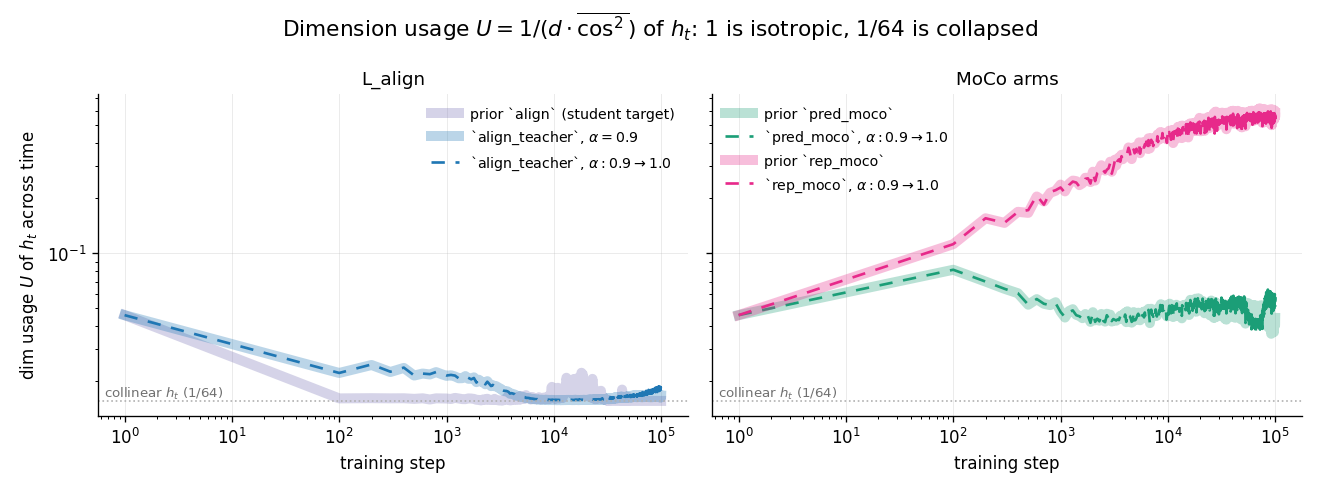
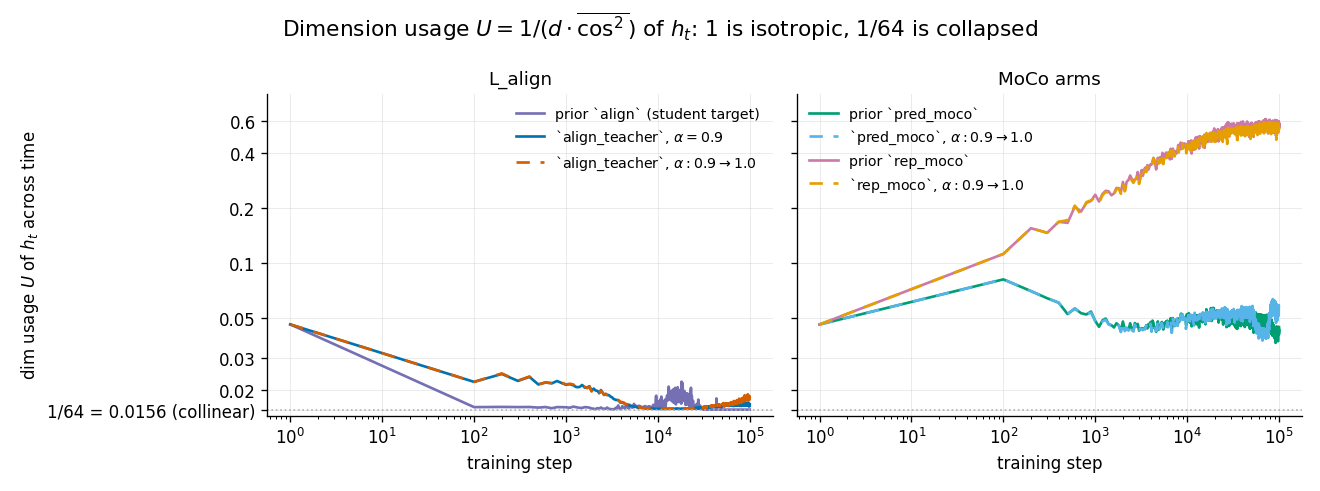
plots: fix unreadable y scales on the three flagged figures
drift_headline: shared LOG y instead of linear 0-1.4. The figure's claim is
a comparison of magnitudes across panels, so the scale stays shared; drift
spans 0.0035 to 1.32 and a linear axis flattened every low-drift arm onto
the zero line. Six labelled ticks.

drift_500: keep sharey and log, clip the shared floor to 3e-4 where 1593 of
1600 points live, instead of six mostly empty decades. Eight labelled ticks.

dim_usage: label the ticks, floor included, so the near-1/64 claim is
checkable; one colour per series and equal line weight, replacing the pale
wide bands.

diff --git a/experiments/2026-08-01_align_teacher_ema_schedule/scripts/make_plots.py b/experiments/2026-08-01_align_teacher_ema_schedule/scripts/make_plots.py
@@ -39,6 +39,7 @@ import matplotlib
 matplotlib.use("Agg")
 import matplotlib.pyplot as plt
 from matplotlib.lines import Line2D
+from matplotlib.ticker import FixedLocator, FuncFormatter, NullLocator
 
 ARMS = ["pred", "rep", "align", "align_teacher", "pred_moco",
         "rep_moco", "sigreg_e", "sigreg_h", "cpc"]
@@ -103,6 +104,19 @@ def curves(series, arm, kind):
                   if k[1] == arm and k[4] == kind)
 
 
+def log_yticks(ax, ticks, labels=None):
+    """Shared log y axis with every tick labelled.
+
+    Matplotlib's default log locator labels decades only, which leaves one
+    or two labels over a panel's height and nothing to read a value off.
+    """
+    ax.yaxis.set_major_locator(FixedLocator(ticks))
+    ax.yaxis.set_minor_locator(NullLocator())
+    fmt = dict(zip(ticks, labels)) if labels else {}
+    ax.yaxis.set_major_formatter(
+        FuncFormatter(lambda v, _: fmt.get(v, f"{v:g}")))
+
+
 def style_axes(ax, ylabel=None, xlabel="training step", logx=True):
     if logx:
         ax.set_xscale("log")
@@ -135,7 +149,6 @@ def plot_headline(series, out_png):
                             sharex=True)
     axs = axs.ravel()
     for ax, arm in zip(axs, ARMS):
-        ax.axhline(0.0, color="#b0b0b0", linestyle=":", linewidth=0.9)
         pts_of = {(a, l): p for a, l, p in curves(series, arm, "adjacent")}
         if arm in TEACHER_ARMS:
             for z, (key, color, _, ls) in enumerate(named):
@@ -151,7 +164,14 @@ def plot_headline(series, out_png):
                 ax.plot([p[0] for p in pts], [p[1] for p in pts],
                         color=solo_color, zorder=3, **kw)
         ax.set_title(arm, fontsize=11)
-        ax.set_ylim(-0.05, 1.40)
+        # The claim this figure carries is a comparison of magnitudes ACROSS
+        # panels, so the y scale stays shared. Drift spans 0.0035 to 1.32,
+        # nearly three decades, which a linear axis flattens into the zero
+        # line for every low-drift arm. Log keeps the panels comparable and
+        # separates them. Limits contain every plotted point.
+        ax.set_yscale("log")
+        ax.set_ylim(2.5e-3, 2.0)
+        log_yticks(ax, [0.003, 0.01, 0.03, 0.1, 0.3, 1.0])
         style_axes(ax, "drift_cos ($h_t$)")
     for ax in axs[:6]:
         ax.set_xlabel("")
@@ -293,6 +313,11 @@ def plot_drift_500(path, out_png):
         # Linear, the first two probes set the whole range and flatten
         # everything past 1000 steps. Log spans the post-1000 behaviour.
         ax.set_yscale("log")
+        # 1593 of the 1600 points sit above 3e-4; a handful of end-of-ramp
+        # points reach 1e-5 and would stretch the shared axis over six
+        # decades of mostly empty space. Clip the floor to where the data is.
+        ax.set_ylim(3e-4, 1.0)
+        log_yticks(ax, [0.0003, 0.001, 0.003, 0.01, 0.03, 0.1, 0.3, 1.0])
         style_axes(ax, "drift_cos ($h_t$), 500-step pairs"
                    if arm == TEACHER_ARMS[0] else None)
     fig.legend(handles=named_handles(present),
@@ -308,19 +333,29 @@ def plot_drift_500(path, out_png):
 # --- 6. dim usage: is a flat drift curve stability or collapse? -----------
 
 
+# One named series = one colour, used once in the whole figure, and equal
+# line weight, so no curve is a pale backdrop for another. Solid = constant
+# α, dashed = the ramp; the dashed curve is drawn last with long gaps, so
+# the solid one shows through where the two coincide.
 DIM_PANELS = [
     ("L_align", [("align", "#7570b3", "-", "prior `align` (student target)"),
-                 ("align_teacher_a09", STUDENT, "-",
+                 ("align_teacher_a09", "#0072B2", "-",
                   r"`align_teacher`, $\alpha=0.9$"),
-                 ("align_teacher_sched", STUDENT, "--",
+                 ("align_teacher_sched", "#D55E00", "--",
                   r"`align_teacher`, $\alpha:0.9\rightarrow1.0$")]),
-    ("MoCo arms", [("pred_moco", "#1b9e77", "-", r"prior `pred_moco`"),
-                   ("pred_moco_sched", "#1b9e77", "--",
+    ("MoCo arms", [("pred_moco", "#009E73", "-", r"prior `pred_moco`"),
+                   ("pred_moco_sched", "#56B4E9", "--",
                     r"`pred_moco`, $\alpha:0.9\rightarrow1.0$"),
-                   ("rep_moco", "#e7298a", "-", r"prior `rep_moco`"),
-                   ("rep_moco_sched", "#e7298a", "--",
+                   ("rep_moco", "#CC79A7", "-", r"prior `rep_moco`"),
+                   ("rep_moco_sched", "#E69F00", "--",
                     r"`rep_moco`, $\alpha:0.9\rightarrow1.0$")]),
 ]
+
+# Labelled ticks for the dim-usage axis. The 1/64 floor gets its own label
+# so the "both align arms end near the floor" claim is checkable.
+DIM_TICKS = [1.0 / 64, 0.02, 0.03, 0.05, 0.1, 0.2, 0.4, 0.6]
+DIM_TICK_LABELS = ["1/64 = 0.0156 (collinear)", "0.02", "0.03", "0.05",
+                   "0.1", "0.2", "0.4", "0.6"]
 
 
 def plot_dim_usage(loss_csv, out_png, n_dims=64):
@@ -338,22 +373,20 @@ def plot_dim_usage(loss_csv, out_png, n_dims=64):
             if not pts:
                 print(f"  (missing {run} in {os.path.basename(loss_csv)})")
                 continue
-            # constant-α is drawn as a wide pale band so the scheduled
-            # curve stays visible where the two coincide.
-            wide = ls == "-"
-            # The constant-α band must stay visible under the scheduled
-            # curve where the two coincide: wide enough to show on both
-            # sides, and the dashes are long-gapped so it shows through.
-            kw = dict(lw=6.0, alpha=0.30) if wide else dict(
-                lw=1.6, dashes=(5, 4))
+            # Equal weight for both, and the dashed scheduled curve is
+            # long-gapped, so where two curves coincide each stays visible.
+            kw = dict(lw=1.6) if ls == "-" else dict(lw=1.6, dashes=(5, 4))
             ax.plot([p[0] for p in pts], [p[1] for p in pts], color=color,
                     linestyle=ls, label=label, **kw)
+        # The floor line is identified by its own y tick, so no text label.
         ax.axhline(1.0 / n_dims, color="#b0b0b0", linestyle=":", linewidth=1.0)
-        ax.text(0.01, 1.0 / n_dims, f"collinear $h_t$ (1/{n_dims})",
-                transform=ax.get_yaxis_transform(), ha="left", va="bottom",
-                fontsize=8, color="#707070")
         ax.set_title(title, fontsize=11)
+        # Shared log axis, but the data spans 0.0156 to 0.617: the default
+        # decade locator labels 10^-1 alone over the whole height and
+        # nothing can be read off. Label the ticks, floor included.
         ax.set_yscale("log")
+        ax.set_ylim(0.0145, 0.85)
+        log_yticks(ax, DIM_TICKS, DIM_TICK_LABELS)
         style_axes(ax, r"dim usage $U$ of $h_t$ across time"
                    if title == DIM_PANELS[0][0] else None)
         ax.legend(frameon=False, fontsize=8.5, loc="best")
